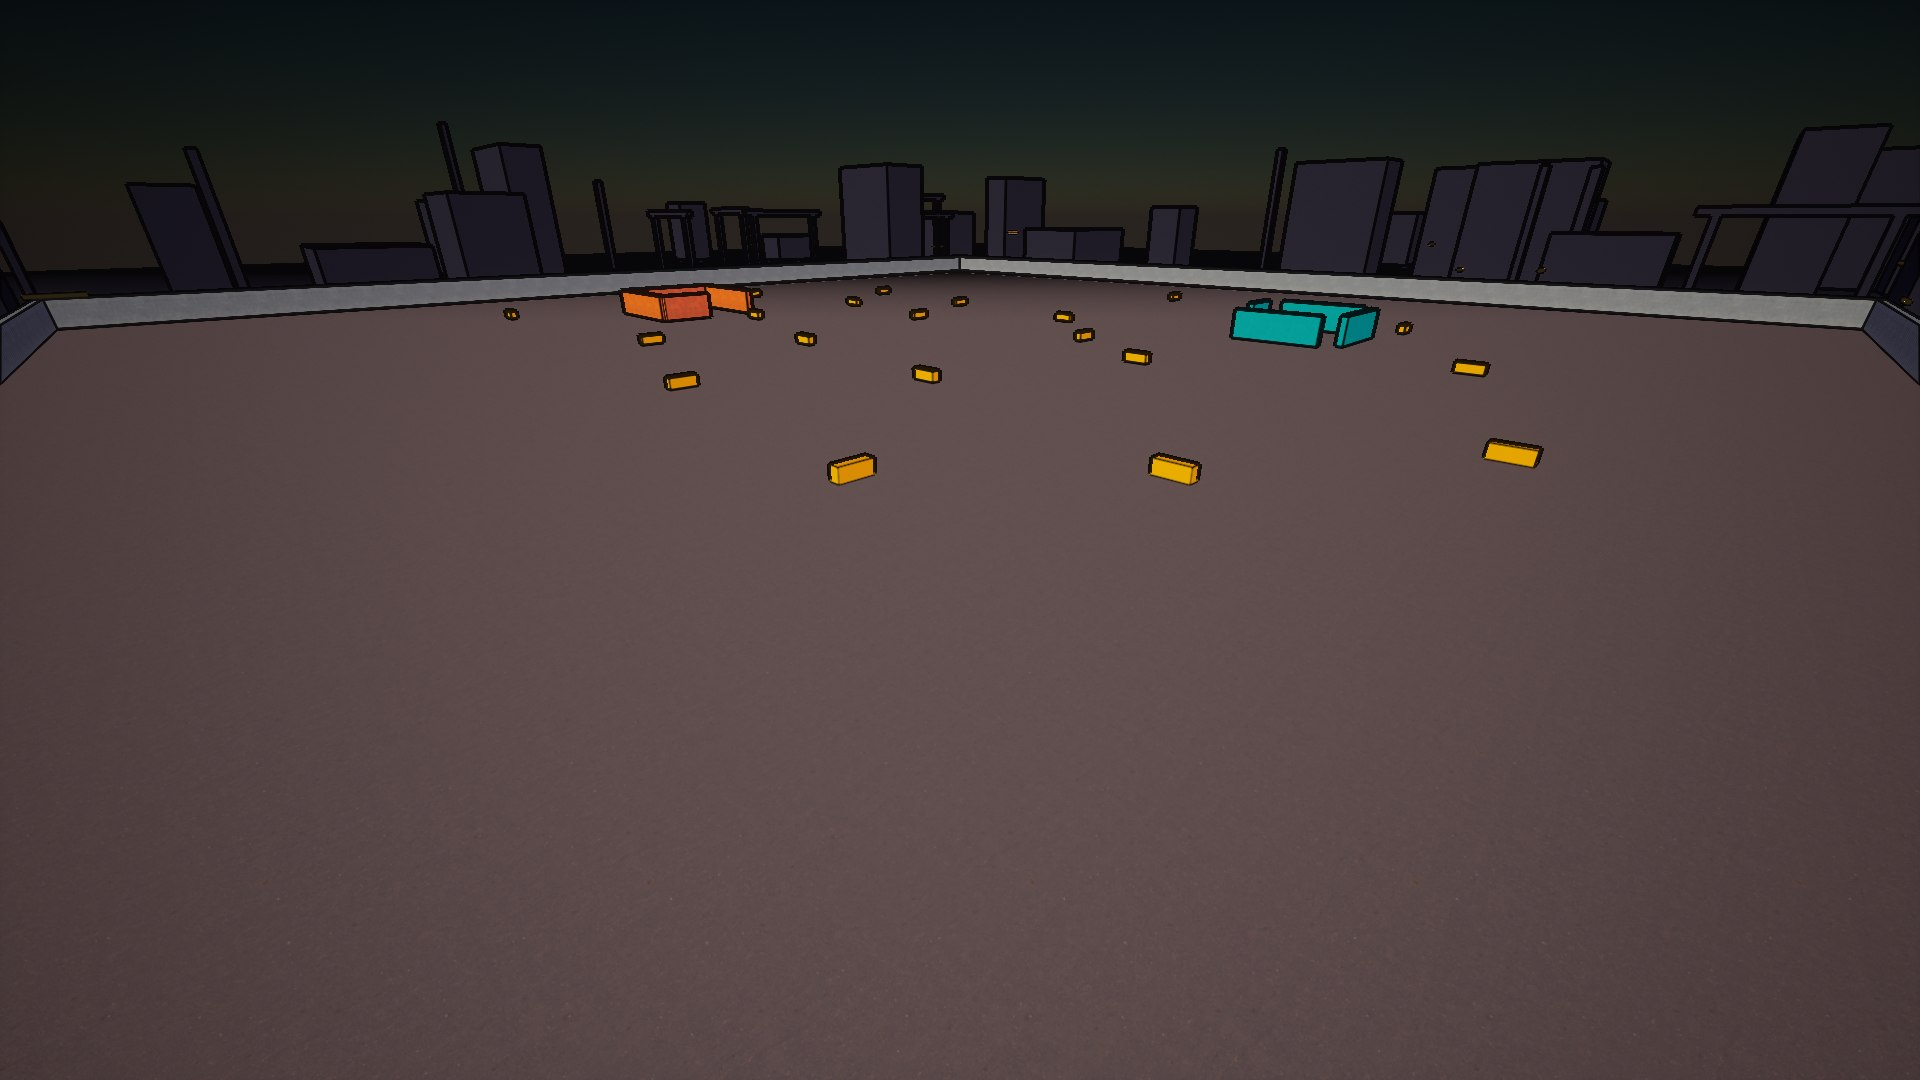
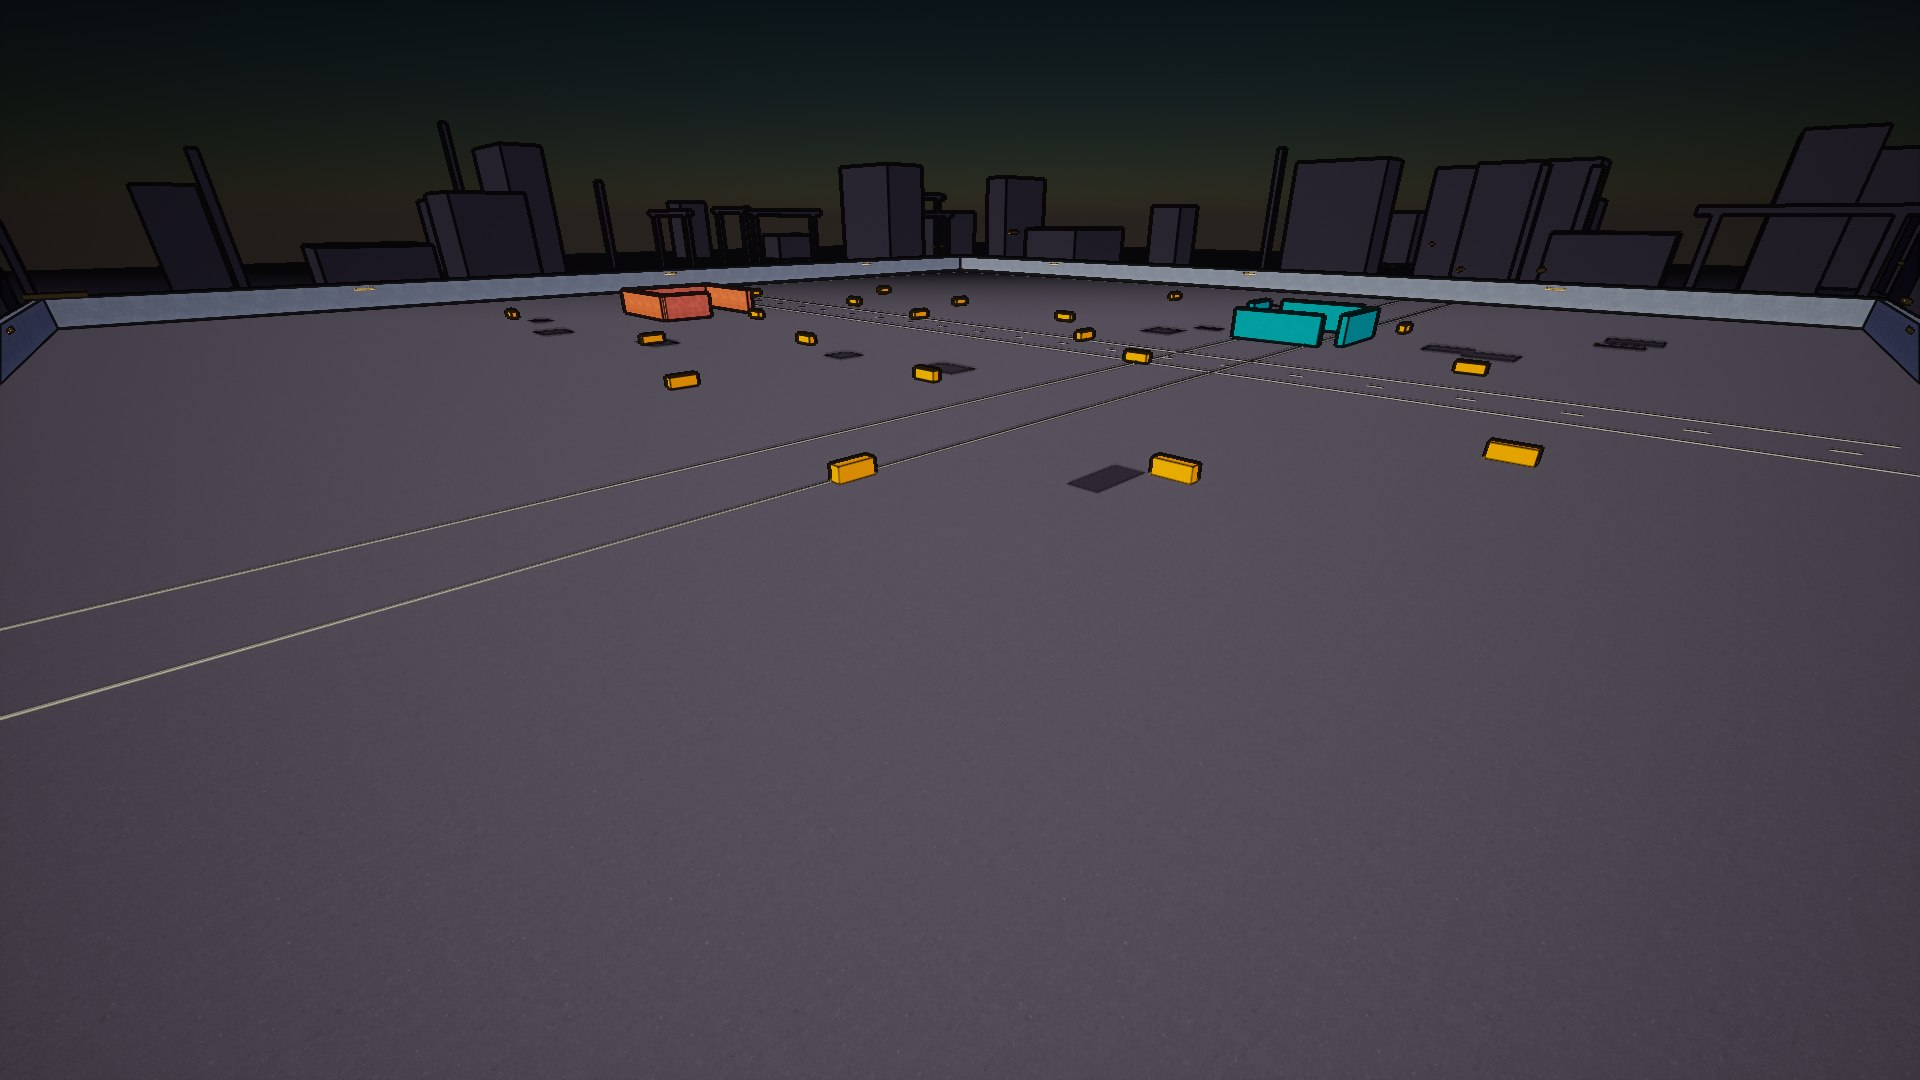
[Docs] Add SPEC-P2-00 vertical-slice overview + record loop iteration 2 (GDD 13.2, 14.3.4)
Phase-2 spec set drafted spec-first (subagent, reviewed): build order
P2-01..09 with events, test bar, and non-goals. ACTIVE_MILESTONE stays on
Phase 1 - flipping it is the owner's call after the 13.2 playtest.

diff --git a/progress_data.js b/progress_data.js
@@ -93,6 +93,12 @@ window.PROGRESS_DATA = {
   screenshotNoot: "Sterke PC (GTX 1080 Ti, SM6) — texture-ronde: CC0-albedo's (asfalt/beton/metaalplaat/golfplaat) door de toon-pijplijn, exposure-neutraal genormaliseerd; skyline + inktlijnen + schemer-mood intact.",
 
   changelog: [
+    { datum: "Sessie 2026-07-22 (nacht — loop-iteratie 2)", punten: [
+      "Palet-discipline structureel: texture-variatie is nu luminantie-only in de shader — een roestige texture kan een Dominion-gevel nooit meer verkleuren; de post staat weer op het gelockte zalm-oxide.",
+      "Straat-dressing als no-collision-deco: hoofdader + dwarsstraat met rijstrook-markering en 14 olie/roestvlekken; natrium-checkpointstrips (12) op de binnenmuren — de plaza vertelt nu een bezettingsverhaal (15.5).",
+      "SPEC-P2-00 (Vertical Slice-overview) opgeleverd via subagent en gereviewd: build-volgorde P2-01…09, events per spec, testeisen, non-goals; ACTIVE_MILESTONE-omzetting blijft expliciet aan de eigenaar.",
+      "Groene bar: build ✓, 31/31 ✓, validatie 0 ✓, catalog 19/19 ✓."
+    ]},
     { datum: "Sessie 2026-07-22 (nacht, sterke PC — asset-pass gestart)", punten: [
       "EERSTE ECHTE TEXTURES in de game (taak C, owner-akkoord): 4×2K CC0-diffuse van Poly Haven (asfalt, betonblok, golfplaat, metaalplaat) — gedownload via API, geïmporteerd via nieuw script Tools/import_polyhaven_textures.py, herkomst in Content/Art/Textures/SOURCES.md.",
       "M_EclipseToon uitgebreid met world-aligned albedo-pad (dominante-as-projectie, default volledig neutraal); builder koppelt per palet-entry texture + schaal.",

diff --git a/phase0/specs/SPEC-P2-00_vertical_slice_overview.md b/phase0/specs/SPEC-P2-00_vertical_slice_overview.md
@@ -1,0 +1,123 @@
+# SPEC-P2-00 — Vertical Slice "Thirteen Bullets": Overview & Gate
+*Phase 2 feature spec set | GDD refs: 13.2 (Phase 2), 14.3.4, 14.5, 15.0/15.5, 2.9 (Act 1), 3.3 (Kessara)*
+*Skill owner: Game Architecture Expert*
+
+---
+
+## Purpose
+
+Phase 1 built and live-wired the loop on graybox (its own 13.2 gate — the voluntary-second-loop playtest — remains the owner's open call; 2026-07-19 was the Phase 0→1 gate). Phase 2 proves the *game*: Act 1's opening ~3 hours at target quality (13.2 — "quality benchmark + (if sought) funding/partner material"). Concretely, per 13.2:
+
+1. **Kessara Underworks polished slice** — one district at the 15.5 stylized fidelity bar (amber smog, layer-cake verticality, occupation dressing per 3.3).
+2. **Hollow Point walkable base** — 4 facilities in the Act 1 geothermal vault (5.2), replacing the Phase 1 menu base.
+3. **Squad of 4 with 3 classes** — up from 2 classless recruits (4.2.3).
+4. **Command Mode at final feel** — 30% time dilation, the 8.4 order set, orders as promises.
+5. **Authored missions M1.1–M1.4** (2.9: *Thirteen Bullets*, *The Dead Drop*, *Signal Fire*, *The Quartermaster*) + **one liberation-template instance** (11.2).
+6. **Save system v1** and **UI stack v1** (12.3, 12.1 CommonUI).
+
+**Gate question (13.2): does the slice review as "I want the rest of this game"?** External reviewers (not the team) play the 3 hours cold. If the answer is "nice systems, but…" — the fidelity/feel gap gets fixed before any Phase 3 work starts.
+
+> **Standing note:** ACTIVE_MILESTONE (13_roadmap.md) governs. This spec set becomes buildable scope only when the owner flips that block to Phase 2; until then it is Phase 0-style pre-production for the next milestone. Per 15.0, Phase 2 is where fidelity work is *authorized* — the Graybox Rule expires here for the slice district only.
+
+## Scope
+
+| In (Phase 2) | Out (later phases) |
+|---|---|
+| One planet: Kessara; one polished district + Hollow Point vault | Tarsis and all other planets (Phase 3+); second districts |
+| Squad of 4; 3 classes; existing roster/permadeath/bonds carried forward | All 9 classes (Phase 3); fireteams of 8+; officer/company layer (Part 7) |
+| Command Mode final feel (8.4) | Hybrid large battles (8.6, Phase 3); battle command |
+| Hollow Point walkable, 4 facilities, construction on strategic clock | Base tiers 2–3, sieges of the base, forward bases, relocation |
+| Authored M1.1–M1.4 on the shared quest runtime | M1.5–M1.8 (Phase 3); companions beyond Mara + Brick; Mission Generator v1 (11.3) |
+| One liberation-template instance (district-scale region flips) | Full planet-liberation campaigns; Dominion Response Tiers 1+ (scripted pressure only) |
+| Save v1 (versioned plugin + v0 migration) | Long-campaign soak coverage beyond slice fixtures |
+| UI stack v1 (CommonUI: HUD, command, base, map, debrief) | Full strategy-map UI for multi-planet play; accessibility completion (Phase 5) |
+| Fidelity per 15.5 revision (stylized, Nanite-dense, tuned software Lumen) | HW-Lumen/RTX validation (needs target-class card, 15.2A); photoreal anything |
+| Audio Phase 2 infra: 16.7 adaptive music (vertical layers + never-silent contract), combat audio basics | Recorded VO (Phase 5 — TTS placeholder per 16.4); full AI Audio Director (16.11) |
+
+## Spec set & build order
+
+Ordered by dependency; every spec follows 14.5 (data schema → pure-logic core + unit tests → subsystem wrapper + events → debug UI → real UI/content *last* — in Phase 2 "real UI/content" finally arrives, but only after the headless layer is true). Per 14.3.4 each spec lists its events consumed/emitted before code is written; new tags land in `Eclipse/Docs/EventCatalog.md` in the same commit (14.2).
+
+| # | Spec | Depends on |
+|---|---|---|
+| 01 | Squad of 4 & Classes | P1-06, P1-07 |
+| 02 | Command Mode (final feel) | 01 |
+| 03 | Hollow Point Walkable Base | P1-08, P1-03 |
+| 04 | Authored Missions M1.1–M1.4 | 01, 02, 03, P1-05 |
+| 05 | Liberation Template Instance | 04, P1-04 |
+| 06 | Save System v1 | 01, 03, 05 |
+| 07 | UI Stack v1 | 02, 03, 04 |
+| 08 | Fidelity District (Kessara Underworks) | 04 (spaces locked) |
+| 09 | Audio Infrastructure (16.7) | 02, 04 |
+
+08 and 09 can run in parallel with 05–07 once mission spaces are locked; 06 lands before content freeze so every new struct ships serializable.
+
+### SPEC-P2-01 — Squad of 4 & Classes
+Grow the squad to 4 and introduce the first 3 classes with distinct kit, orders, and barks so a squad reads as *people with jobs*, not clones. Implements 4.2.3 (classes), 4.2.2 (traits/bonds at 4), 8.3 (shared cover scoring at squad scale). Squadmates arrive pre-classed as authored Act 1 recruits (Academy facility deferred — see Open questions).
+**Events** — consumed: `Event.Prep.MissionLaunchRequested`, `Event.Squad.OrderIssued`. Emitted: `Event.Squad.OrderAcknowledged` / `OrderRefused` / `SoldierDowned` (move to implemented at 4-strong scale); new `Event.Squad.SoldierRevived` (Medic stabilize, 4.2.3), `Event.Squad.ClassAbilityUsed`.
+
+### SPEC-P2-02 — Command Mode (final feel)
+Take Command Mode from debug order-picker to shipping feel: hold-to-enter, 30% time dilation (full pause on Tactician), camera lift, the 8.4 order table (Move/Hold, Focus, Suppress, Flank, Breach, Ability, Sync strike, Regroup), and verbal refusal messaging — "orders are promises the AI keeps" (8.4/9.5). Implements 8.4, 4.1.2.
+**Events** — consumed: `Event.Squad.OrderAcknowledged` / `OrderRefused` (feedback surfacing). Emitted: new `Event.Command.ModeEntered` / `ModeExited` (audio/UI/tutorial consumers); orders themselves flow through the existing `Event.Squad.OrderIssued`.
+
+### SPEC-P2-03 — Hollow Point Walkable Base
+Replace the menu base with the walkable Act 1 vault: 4 facility slots in authored shells, construction/upgrades on the strategic clock, visible-growth mandate per level (5.4). Proposed facilities: Command Center, Barracks, Workshop, Medbay (5.3.1; see Open questions). Implements 5.1–5.4 (Act 1 subset), 12.3 (building system: slot-graph + level instances).
+**Events** — consumed: `Event.Economy.ResourcesChanged`, `Event.Campaign.DayAdvanced` (timers), `Event.Roster.*` (staffing/bunks/memorial presence). Emitted via CampaignState commit only: new `Event.Base.ConstructionStarted`, `Event.Base.FacilityBuilt`, `Event.Base.FacilityUpgraded`, `Event.Base.StaffAssigned`.
+
+### SPEC-P2-04 — Authored Missions M1.1–M1.4
+Author the four opening missions on the shared quest runtime (12.3: DataAsset objective graphs, StateTree phases) with the full 11.1 loop — Briefing → Preparation → Execution → Extraction → Debrief — and stealth-viable routes per 11.4. M1.1 teaches scarcity combat, M1.2 stealth+intel, M1.3 the first district world-state change, M1.4 the armory heist that recruits Brick (2.9).
+**Events** — consumed: `Event.Prep.MissionLaunchRequested`. Emitted: existing `Event.Mission.Started` / `ObjectiveCompleted` / `Completed` / `Failed`; new `Event.Mission.PhaseChanged` (StateTree phase facts), `Event.Story.BeatReached` (narrative flags, committed via CampaignState).
+
+### SPEC-P2-05 — Liberation Template Instance
+Instantiate one campaign-mission template (11.2) on Kessara's district graph so an authored mission (M1.3's jammer sabotage) visibly flips region state and the strategic layer answers — the systemic half of "authored + systemic" proven at slice scale. Implements 11.2 (template instantiation on authored mission sites), 11.3 inputs *without* the generator.
+**Events** — consumed: `Event.Mission.Completed`. Emitted via commit: existing `Event.Strategy.RegionControlChanged`; new `Event.Strategy.LiberationPhaseAdvanced`.
+
+### SPEC-P2-06 — Save System v1
+Promote save v0 to the versioned plugin architecture (12.3): per-subsystem serialization contracts, schema version + migration entry for every break (14.3.6), autosave at strategic transitions, mission checkpoints. Slice content (base state, class data, story flags, liberation phases) all round-trips. Implements 12.3 (save system), 14.3.6.
+**Events** — consumed: `Event.Mission.Completed`, `Event.Campaign.DayAdvanced` (autosave triggers). Emitted: new `Event.Save.Completed` (UI toast); otherwise infrastructure, like P1-01.
+
+### SPEC-P2-07 — UI Stack v1
+Replace debug UI with the CommonUI stack (12.1): diegetic-leaning HUD (8.8 — no HUD soup), command-mode interface, base/facility screens, mission prep and debrief, map screen; controller + M/KB parity, Enhanced Input context stacks (foot/command/map). Implements 12.1 (CommonUI, Enhanced Input), 8.8.
+**Events** — consumed (pure consumer): `Event.Economy.*`, `Event.Mission.*`, `Event.Squad.*`, `Event.Base.*`, `Event.Roster.*`, `Event.Command.*`, `Event.Save.Completed`. Emitted: none — UI input calls subsystem APIs; the bus reports facts, it does not carry commands (EventCatalog rules).
+
+### SPEC-P2-08 — Fidelity District: Kessara Underworks
+Dress the slice district to the locked 15.5 direction — stylized Borderlands-leaning with the 2026-07-22 fidelity revision: Nanite-dense kits, tuned-up software Lumen, cel palette + ink outlines, richer post/atmospherics — run through the 15.8 loop until it clears 15.12 ("AAA-ready") on the strong dev PC (15.2C), inside 12.4 budgets. Implements 15.5/15.6/15.8/15.12, 3.3 (Kessara identity: amber smog, sodium vs. white-gold light, occupation dressing).
+**Events** — consumed: `Event.Strategy.RegionControlChanged` (occupation-state Data Layers, 12.1). Emitted: none (art/content spec; no gameplay logic).
+
+### SPEC-P2-09 — Audio Infrastructure
+Stand up the 16.7 adaptive music system — vertical layers (atmosphere floor → theme motif → combat layers), Quartz-quantized transitions, the never-silent contract — plus combat audio basics (16.9) and squad barks as primary game-state audio (8.8), TTS placeholder voices per 16.4. Implements 16.7, 16.9 (subset), 16.14.
+**Events** — consumed (pure consumer): `Event.Command.ModeEntered`/`ModeExited`, `Event.Mission.*`, `Event.Squad.*`, alert-stage facts from combat. Emitted: none (debug state dump via console command instead).
+
+## Shared conventions (unchanged from Phase 1)
+
+- All tunables in DataAssets/DataTables (14.2); a hardcoded gameplay constant is a defect.
+- New event tags documented in `Eclipse/Docs/EventCatalog.md` in the same commit; facts not commands; state-changing facts emitted only by the CampaignState commit (14.3.3).
+- Pure-logic cores compile without engine actor headers (14.3.2).
+- No system hard-depends on content existing (14.3.5) — a missing facility mesh or music stem logs a warning and defaults gracefully.
+
+## Tests (14.4)
+
+| Layer | Phase 2 requirement |
+|---|---|
+| Unit | Class kit/order resolution, construction timers + cost math, liberation-template instantiation (deterministic seeds), save v0→v1 migration |
+| Functional (Gauntlet) | Per mission M1.1–M1.4 + the liberation instance: spawn → complete-by-script → consequences committed to CampaignState |
+| Squad AI quality bar | Scenario suite extended to squad of 4 + classes: cover under fire, order refusal messaging, stealth discipline, medic triage — per merge; any silent order failure = release blocker |
+| Save integrity | Full slice fixture round-trip per merge; migration test for every schema version including v0 campaigns |
+| Performance | Per-merge budget checks on the Underworks district and Hollow Point interior vs. 12.4, profiled on the strong dev PC at dev-preview scalability (15.2C) |
+| Campaign soak | Nightly scripted slice playthrough (M1.1→M1.4 + liberation flip) asserting economy/state invariants |
+
+## Global out-of-scope (all Phase 2 specs — explicit non-goals)
+
+**No second planet** (Kessara only; Tarsis is Phase 3). **No fleet/space layer** (Part 7 space, Hangar/Spaceport, vehicles). **No multiplayer** — ever a non-goal (single-player, 12.1: Iris disabled). Also out, per 13.2 boundaries: Mission Generator (11.3), hybrid battles (8.6), Dominion strategic AI beyond scripted Act 1 pressure, research/tech tree (Part 10), classes beyond the chosen 3, base tiers beyond the 4-facility vault, companions beyond Mara + Brick, recorded VO, M1.5–M1.8. Anything not listed in a spec's "In scope" is out.
+
+## Definition of Done (Phase 2 as a whole)
+
+A cold external player can, without dev intervention: start a new campaign, play the ~3-hour slice — M1.1 through M1.4 with a squad of 4 across 3 classes, Command Mode throughout, returning to a walkable Hollow Point that visibly grows, seeing one district liberated on the map — at 15.12 visual quality with always-on adaptive music, on the shipping UI, with save/load working at any point (including a v0 save migrating cleanly). CI green across all six 14.4 layers. Then the gate review: **"I want the rest of this game" — yes or no.**
+
+## Open design questions (to resolve in the numbered specs)
+
+1. **Which 3 classes?** Proposal: Assault, Medic, Scout (matches M1.1 combat / M1.4 heist / M1.2 stealth beats); 13.2 doesn't lock the pick. Combat Designer + Narrative to confirm in SPEC-P2-01.
+2. **Class assignment without the Training Academy** — 4.2.3 assigns classes at the Academy, which is not among the 4 proposed facilities. Proposal: Act 1 hand recruits arrive pre-classed; Academy arrives Phase 3. Alternative: swap Medbay for Academy in SPEC-P2-03.
+3. **Facility pick** — Command Center/Barracks/Workshop/Medbay vs. a variant including the Intelligence Center (11.1 makes intel-driven Preparation first-class, and M1.2 teaches intel currency). Needs an economy-loop check in SPEC-P2-03.
+4. **Liberation instance scale** — how many district region flips make "one liberation-template instance" honest without building the Phase 3 campaign layer (proposal: Foothold phase only, 3 regions).
+5. **Prologue (2 h, 2.9)** — is the playable prologue inside the 3-hour slice or does the slice open at M1.1 with a briefing recap? Affects SPEC-P2-04 scope materially.

diff --git a/HANDOFF.md b/HANDOFF.md
@@ -154,7 +154,9 @@ The clean mechanism is **git**. The bible + code are already **one repo** (§2),
 
 **FAB-WACHTRIJ (voor de eigenaar, ~10 min):** Epic Games Launcher is op deze pc nog nooit gestart/ingelogd. Stappen: (1) Launcher starten → inloggen met het Epic-account (2FA bij de hand); (2) in de browser op fab.com met hetzelfde account inloggen; (3) melden — dan volgt een concrete shortlist (industriële modulaire kit, straatprops, Paragon-characters) waarop alleen "Add to library" + licentie-akkoord geklikt hoeft te worden; import + toon-restyle gebeurt daarna autonoom. Ook nuttig: ElevenLabs-key scopes Music/SFX aanzetten voor taak D-liveruns (TTS werkt al).
 
-**Bekende volgende zwakste punten (15.8-lijst voor de volgende pass):** (1) Dominion-post kleurt warmer dan het gelockte zalm-oxide — TexMix/kleur bijstellen; (2) straat-dressing op de lege voorgrond (markeringen/decals als no-collision-dressing); (3) glow-raamstroken schaars zichtbaar vanaf de grond; (4) de **lit-toon-migratie** (echt N·L + VSM + software-Lumen-GI; dan wordt SSAO zinvol); (5) particles (vonken/as/embers).
+**Loop-iteratie 2 (zelfde nacht, alles groen + gepusht):** texture-variatie luminantie-only gemaakt (palet = enige kleur-autoriteit; Dominion-post weer zalm-oxide) · straat-dressing gelegd (hoofdader + dwarsstraat + markering + vlekken, no-collision) · 12 natrium-checkpointstrips op de binnenmuren · **SPEC-P2-00** (Vertical Slice-overview) via subagent opgeleverd + gereviewd in `phase0/specs/` — de ACTIVE_MILESTONE-omzetting naar Phase 2 blijft de call van de eigenaar (na de 13.2-playtest).
+
+**Bekende volgende zwakste punten (15.8-lijst):** (1) de **lit-toon-migratie** (echt N·L + VSM + software-Lumen-GI; dan wordt SSAO zinvol) — de grote milestone; (2) particles (vonken/as/embers, Kessara-smog); (3) daarna verticaliteit in het district zelf (03.3 layer-cake: bruggen/platforms als graybox-massing binnen de perimeter).
 
 **Owner-afspraken die blijven gelden (elke sessie):** geen installaties/downloads/acceptatie-prompts zonder expliciet akkoord vooraf (eerst uitleggen waarvoor); bouwen met `-NoUba`; PROGRESS.html nooit bewerken (data in `progress_data.js`; `progress_auto.js` is van de watcher). `gh` is hier NIET geïnstalleerd — push werkt via de vault-token in Windows Credential Manager (username gepind in repo-config).
 
